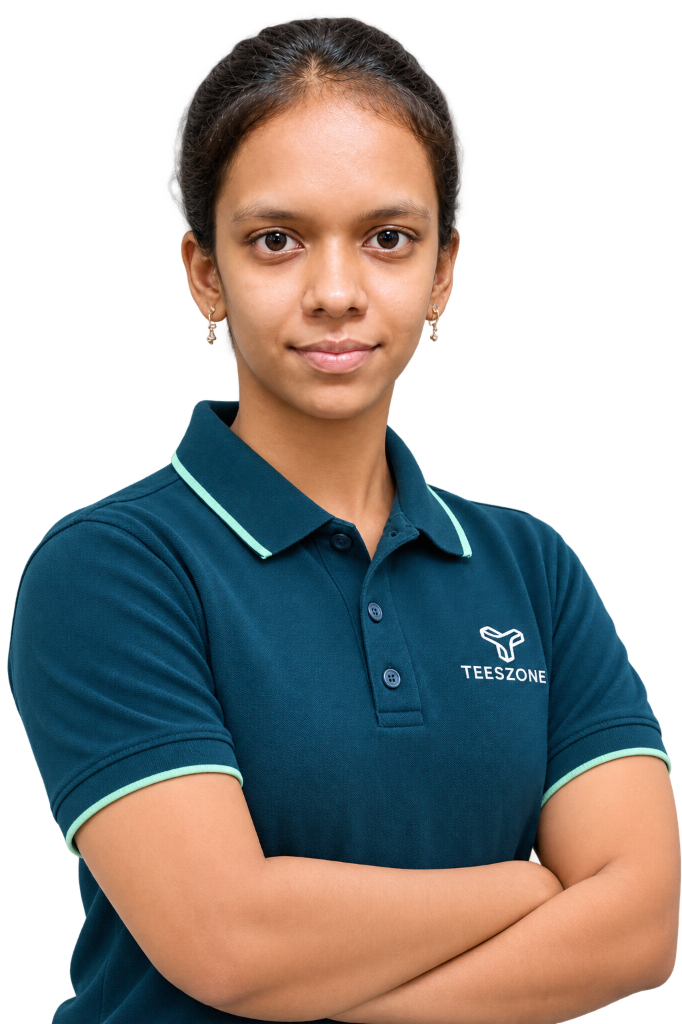
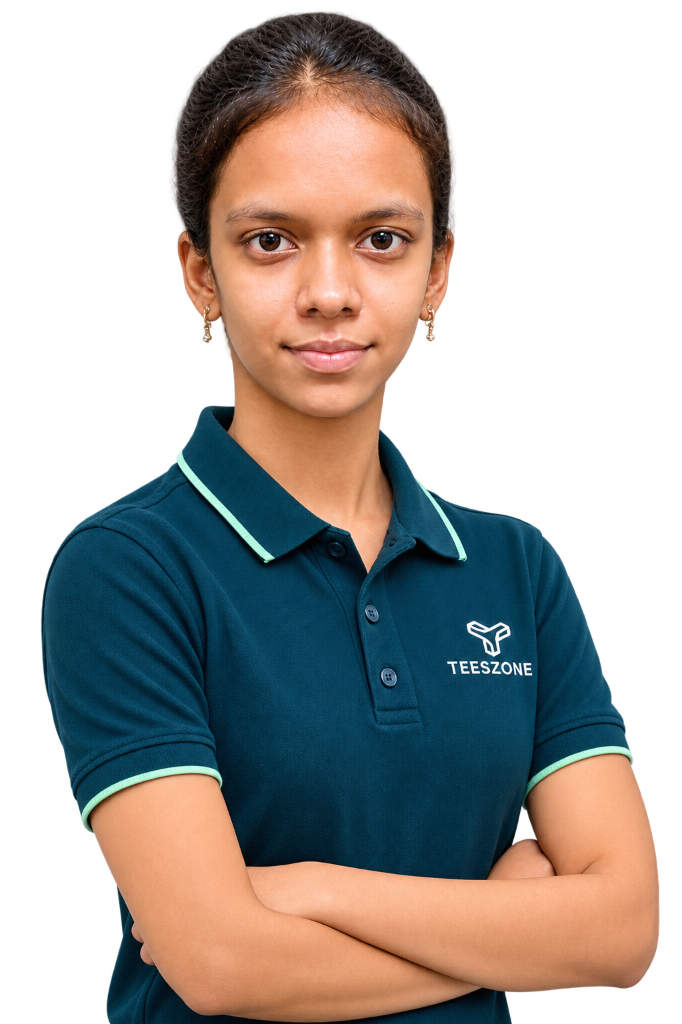
Update Vasuki Thangaraj portrait with new photo and decrease height of bottom-left wave swoosh

Changed region(s): [[0.0, 0.0, 1.0, 1.0]]

diff --git a/src/pages/About/components/TeamSection.tsx b/src/pages/About/components/TeamSection.tsx
@@ -319,9 +319,9 @@ export const TeamSection: React.FC = () => {
             </svg>
           </div>
 
-          {/* Bottom-Left Corner Burgundy Gradient Wave Swoosh */}
-          <div className="absolute bottom-0 left-0 w-72 sm:w-96 lg:w-[460px] h-72 sm:h-96 lg:h-[460px] opacity-90">
-            <svg viewBox="0 0 460 460" className="w-full h-full" fill="none">
+          {/* Bottom-Left Corner Burgundy Gradient Wave Swoosh - Decreased Height */}
+          <div className="absolute bottom-0 left-0 w-64 sm:w-80 lg:w-[420px] h-24 sm:h-32 lg:h-40 opacity-85">
+            <svg viewBox="0 0 420 160" className="w-full h-full" fill="none" preserveAspectRatio="none">
               <defs>
                 <linearGradient id="waveBottomLeftGrad" x1="0%" y1="100%" x2="100%" y2="0%">
                   <stop offset="0%" stopColor="#80011F" stopOpacity="0.9" />
@@ -329,11 +329,11 @@ export const TeamSection: React.FC = () => {
                 </linearGradient>
               </defs>
               <path
-                d="M0 300C150 270 240 370 370 460H0V300Z"
+                d="M0 50C140 40 240 100 420 160H0V50Z"
                 fill="url(#waveBottomLeftGrad)"
               />
               <path
-                d="M0 370C100 350 170 400 250 460H0V370Z"
+                d="M0 95C100 90 180 125 280 160H0V95Z"
                 fill="#9E1438"
                 fillOpacity="0.45"
               />
